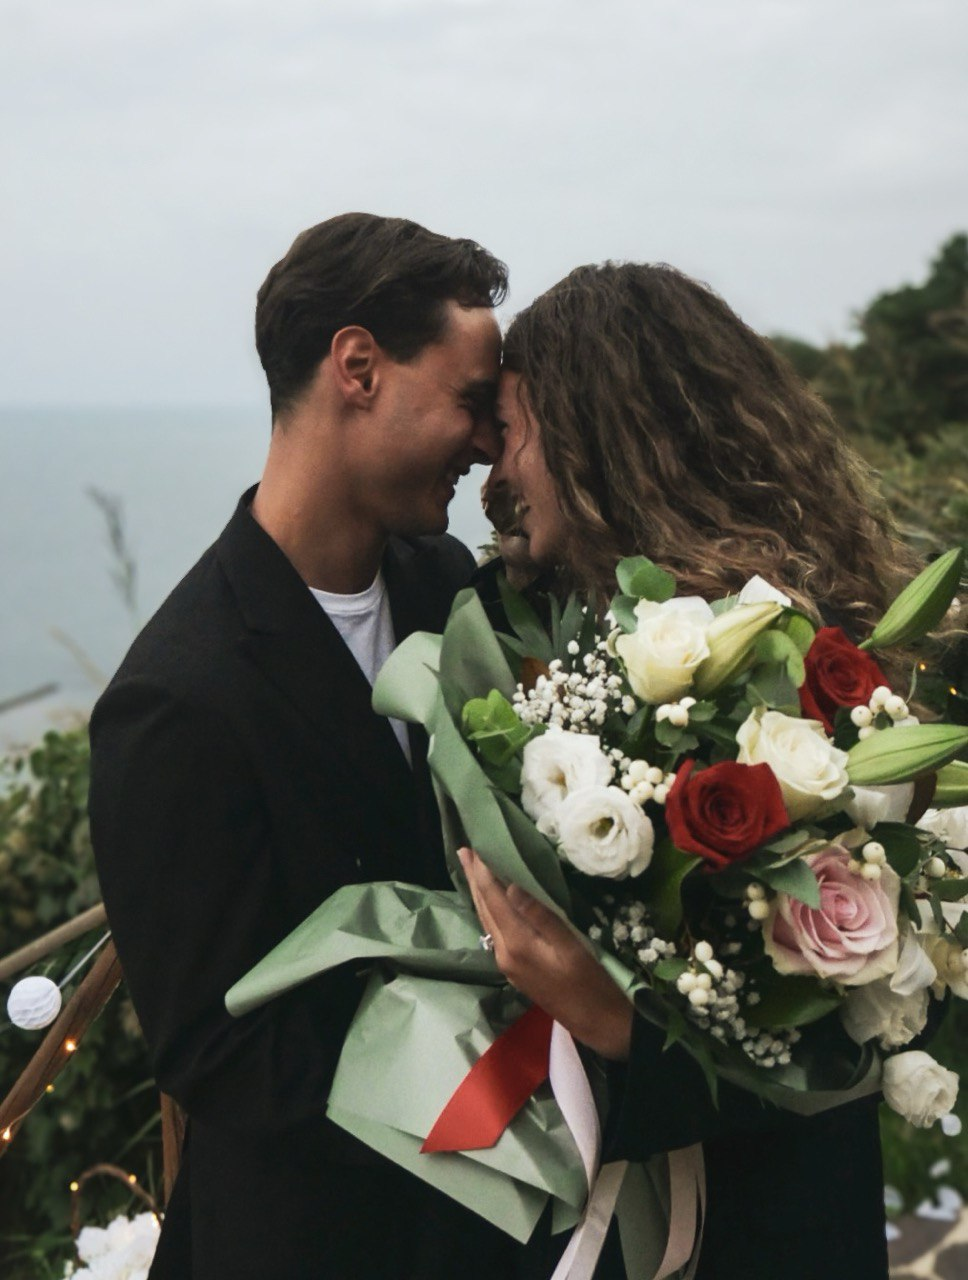
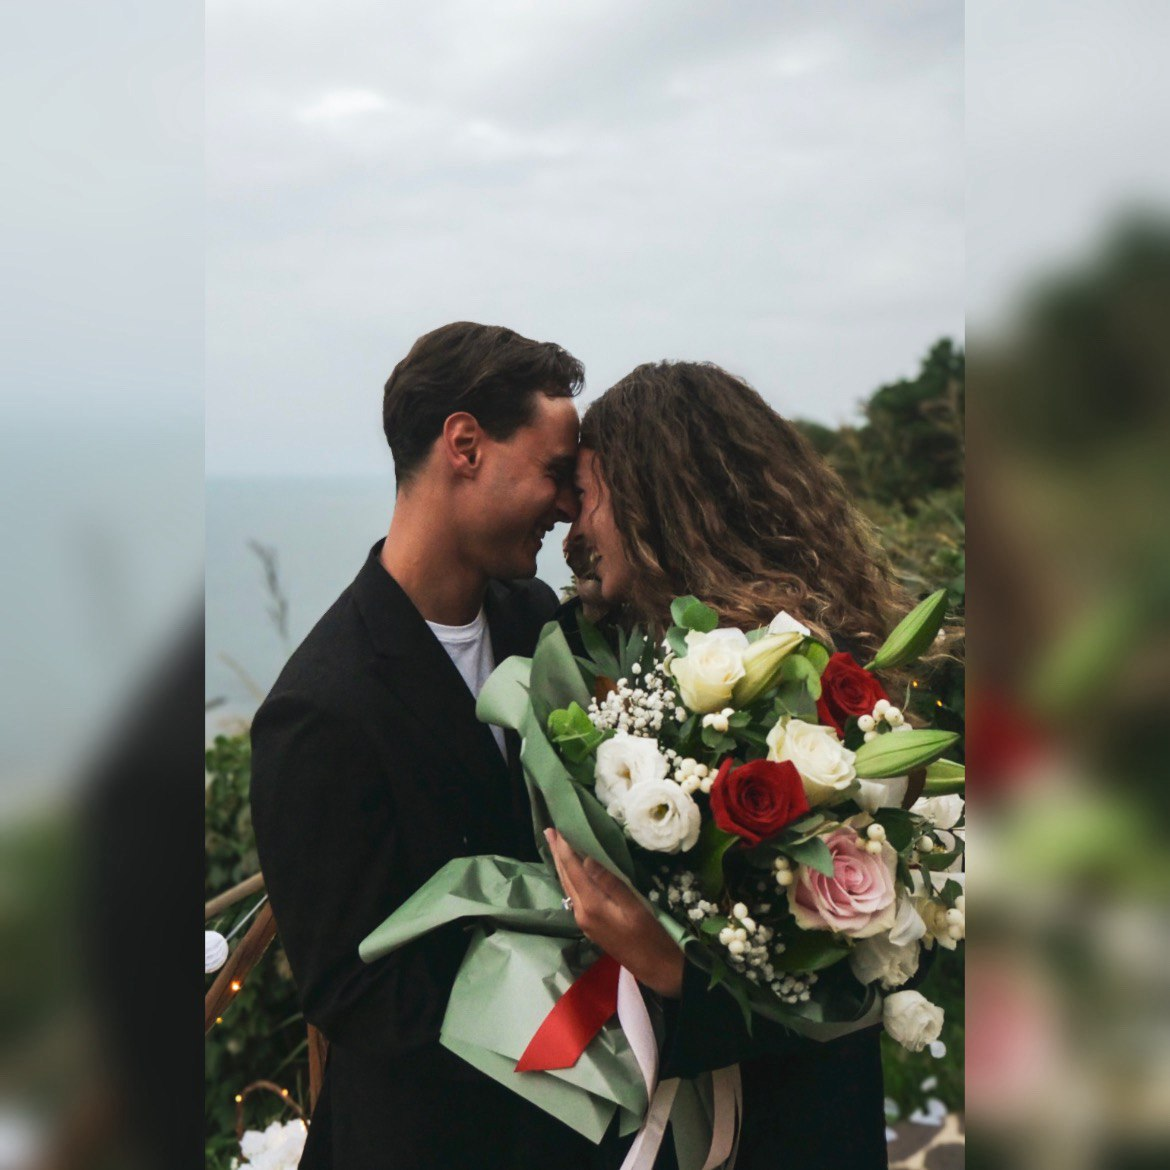
UI: fine-tuning HeroSection background; testo centrato su large; aggiorna DEPLOY/README; piccoli fix EventDetails/GiftSection; aggiorna photoHeader.jpg

diff --git a/src/components/HeroSection.tsx b/src/components/HeroSection.tsx
@@ -7,23 +7,27 @@ export default function HeroSection() {
   };
 
   return (
-    <section className="relative h-screen flex items-center justify-center overflow-hidden">
+    <section className="relative h-screen flex items-start lg:items-center justify-center overflow-hidden">
       <div
-        className="absolute inset-0 bg-cover bg-center bg-no-repeat"
+        className="absolute inset-0 bg-cover bg-no-repeat bg-[center_50%] md:bg-[center_46%] lg:bg-[center_56%] xl:bg-[center_63%]"
         style={{
-          backgroundImage: 'url(/images/photoHeader.jpg)',
+          backgroundImage: 'url(/images/photoHeader.jpg)'
         }}
       >
         <div className="absolute inset-0 bg-black/40"></div>
       </div>
 
-      <div className="relative z-10 flex flex-col items-center justify-center text-white pt-20">
-        <h1 className="font-script text-5xl md:text-[72px] text-white animate-fade-in drop-shadow-lg whitespace-nowrap" style={{letterSpacing: '0.04em'}}>
-          Giacomo & Giulia
-        </h1>
-        <p className="font-sans text-xl mt-[1.5em] tracking-[0.2em] mb-8 uppercase drop-shadow animate-fade-in">
+      <div className="relative z-10 flex flex-col items-center justify-start text-white pt-10 sm:pt-14 md:pt-20 lg:pt-0 xl:pt-0">
+        <p className="font-sans text-2xl md:text-3xl tracking-[0.28em] uppercase drop-shadow animate-fade-in mb-3">
           CI SPOSIAMO
         </p>
+        <h1 className="font-script text-white animate-fade-in drop-shadow-lg whitespace-nowrap mt-0 leading-none" style={{letterSpacing: '0.03em'}}>
+          <span className="inline-block text-6xl md:text-[88px]">G</span>
+          <span className="inline-block text-5xl md:text-[64px]">iacomo</span>
+          <span className="inline-block mx-4 text-3xl md:text-[36px] align-baseline">&</span>
+          <span className="inline-block text-6xl md:text-[88px]">G</span>
+          <span className="inline-block text-5xl md:text-[64px]">iulia</span>
+        </h1>
       </div>
 
       <div className="absolute bottom-8 sm:bottom-12 md:bottom-16 left-1/2 -translate-x-1/2 z-10 text-white text-center">

diff --git a/src/components/GiftSection.tsx b/src/components/GiftSection.tsx
@@ -43,7 +43,7 @@ export default function GiftSection() {
             </button>
             <h4 className="font-serif text-2xl text-neutral-800 mb-4 text-center">DATI BANCARI</h4>
             <div className="text-left text-neutral-700 space-y-2">
-              <p><strong>IBAN:</strong> IT79W0347501605CC0012827993</p>
+              <p className="whitespace-nowrap text-sm sm:text-base overflow-x-auto"><strong>IBAN:</strong> IT79W0347501605CC0012827993</p>
               <p><strong>Intestatario:</strong> Giacomo Riccardi</p>
             </div>
           </div>

diff --git a/src/components/EventDetailsSection.tsx b/src/components/EventDetailsSection.tsx
@@ -44,7 +44,8 @@ export default function EventDetailsSection() {
         {event.title}
       </h3>
       <p className="font-elegant text-neutral-800 mb-2 text-xl md:text-2xl">
-        {isChurch ? 'Ti aspettiamo per la cerimonia presso ' : 'Ti aspettiamo per il ricevimento presso '}
+        {isChurch ? 'Ti aspettiamo per la cerimonia presso:' : 'Ti aspettiamo per il ricevimento presso:'}
+        <br />
         <span className="italic">{event.location}</span>
       </p>
       <p className="font-elegant text-neutral-800 mb-6 text-2xl md:text-3xl">
